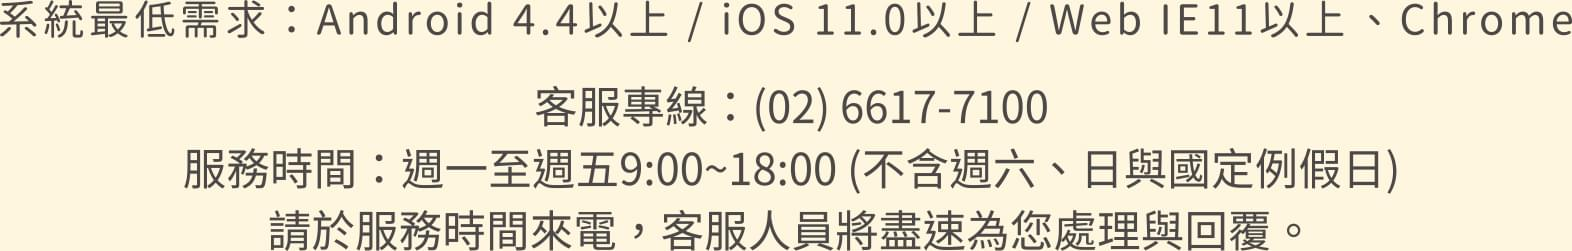
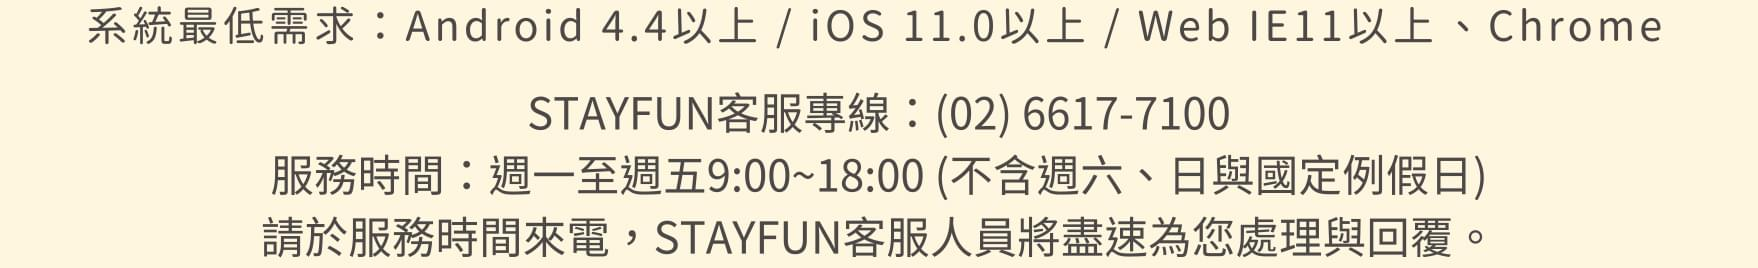
Update 2021-06-07T09:30:52.811Z

diff --git a/index.html b/index.html
@@ -17,31 +17,106 @@
       <div class="banner"><img class="banner__title" src="./assets/images/img_banner_title.png" alt=""><img src="./assets/images/img_banner.jpg" alt=""></div>
       <div class="mainContent">
         <div class="wrapper">
-          <div class="middleSpace"><a class="btn" href="https://www.msig-mingtai.com.tw/MobileWeb/BasicData/Member/Register?utm_source=stayfun&amp;utm_medium=register_stayfun&amp;utm_campaign=20210501" target="_blank">立即成為明台會員</a></div>
+          <div class="middleSpace"><a class="btn" href="https://www.msig-mingtai.com.tw/MobileWeb/BasicData/Member/Register？utm_source=stayfun&amp;utm_medium=register_stayfun&amp;utm_campaign=20210501" target="_blank">立即成為明台會員</a></div>
           <div class="photos"><img src="./assets/images/img_title.png" alt=""><img src="./assets/images/img_main.jpg" alt=""></div>
           <div class="column">
             <div class="col"><img src="./assets/images/text_info-1.png" alt=""></div>
             <div class="col"> <img src="./assets/images/text_info-2.png" alt=""></div>
             <div class="col"> <img src="./assets/images/text_info-3.png" alt=""></div>
+            <div class="col"> <img src="./assets/images/text_info-4.png" alt=""></div>
           </div>
           <div class="row steps">
             <div class="col"><img class="mb" src="./assets/images/img_step_1-mb.jpg" alt=""><img class="pc" src="./assets/images/img_step_1-pc.jpg" alt=""></div>
             <div class="col">
-              <p><a class="mb" href="https://www.msig-mingtai.com.tw/MobileWeb/BasicData/Member/Register?utm_source=stayfun&amp;utm_medium=register_stayfun&amp;utm_campaign=20210501" target="_blank"><img src="./assets/images/img_step_2-mb.jpg" alt=""></a><img class="pc" src="./assets/images/img_step_2-pc.jpg" alt=""></p>
+              <p><a class="mb" href="https://www.msig-mingtai.com.tw/MobileWeb/BasicData/Member/Register？utm_source=stayfun&amp;utm_medium=register_stayfun&amp;utm_campaign=20210501" target="_blank"><img src="./assets/images/img_step_2-mb.jpg" alt=""></a><img class="pc" src="./assets/images/img_step_2-pc.jpg" alt=""></p>
               <p><img src="./assets/images/img_step_3.jpg" alt=""></p>
             </div>
             <div class="col"><img src="./assets/images/img_step_4.jpg" alt=""></div>
+          </div>
+        </div>
+        <div class="wrapper qa">
+          <div class="row">
+            <div class="qa-head"><img src="./assets/images/img_title_qa.png" alt=""></div>
+            <div class="qa-body">
+              <table>
+                <tr>
+                  <td>Q：</td>
+                  <td>STAYFUN提供什麼樣的服務？</td>
+                </tr>
+                <tr>
+                  <td>A：</td>
+                  <td>
+                    <p>1. 不同類型的商家好康，且享有平台嚴選的特約商家優惠、豐富的票券選擇，提供給明台會員使用。</p>
+                    <p>2. 網羅生活日用品、3C家電、居家生活、美食等優質商品，提供專屬優惠，而且全館免運喔！</p>
+                  </td>
+                </tr>
+                <tr>
+                  <td>Q：</td>
+                  <td>如何享有STAYFUN服務？</td>
+                </tr>
+                <tr>
+                  <td>A：</td>
+                  <td>
+                    <p>1. 步驟一-110/12/31以前註冊成為明台產險官網會員。</p>
+                    <p>2. 步驟二-成為明台會員後2週內，會收到STAYFUN帳號開通信件。</p>
+                    <p>3. 步驟三-即可下載STAYFUN  APP，開通您的專屬帳號即享有其服務。</p>
+                  </td>
+                </tr>
+                <tr>
+                  <td>Q：</td>
+                  <td>STAYFUN享樂金是什麼？</td>
+                </tr>
+                <tr>
+                  <td>A：</td>
+                  <td>
+                    <p>為 STAYFUN 專屬支付工具，價值等同現金，1 點享樂金可折抵新臺幣 1 元，訂單結帳時，會優先扣抵享樂金，不足額可使用信用卡刷卡方式完成結帳。</p>
+                  </td>
+                </tr>
+                <tr>
+                  <td>Q：</td>
+                  <td>忘記當初在明台註冊所使用的的email怎麼辦？</td>
+                </tr>
+                <tr>
+                  <td>A：</td>
+                  <td>
+                    <p>跟著以下步驟找回你的留存的資訊：</p>
+                    <p>明台產險網路投保官網 - 會員中心 - 會員登入-會員資料維護 - 即可查看電子郵件</p>
+                    <p>( 因保障資料安全性，部分資料會顯示隱碼 )</p>
+                  </td>
+                </tr>
+                <tr>
+                  <td>Q：</td>
+                  <td>一直都沒有收到STAYFUN  APP開通信件？</td>
+                </tr>
+                <tr>
+                  <td>A：</td>
+                  <td>
+                    <p>請聯繫明台客服  0800-069-889，專人為您服務；</p>
+                    <p>網路投保客戶服務時間：週一至週五 8:30-17:30(例假日及國定假日除外)</p>
+                  </td>
+                </tr>
+                <tr>
+                  <td>Q：</td>
+                  <td>為什麼STAYFUN帳號登不進去？</td>
+                </tr>
+                <tr>
+                  <td>A：</td>
+                  <td>
+                    <p>帳號未開通，請聯繫明台客服  0800-069-889</p>
+                    <p>網路投保客戶服務時間：週一至週五 8:30-17:30(例假日及國定假日除外)</p>
+                  </td>
+                </tr>
+              </table>
+            </div>
+            <p class="qa-footer">更多詳細的STAYFUN APP使用問題請<a href="https://stayfun.mayohr.com/Home/QA" target="_blank">點此</a></p>
           </div>
         </div>
       </div>
       <div class="note">
         <div class="wrapper">
           <ul>
-            <li>注意事項</li>
-            <li>1.  活動內容如有任何異動將公布於本活動網站，本公司享有對本活動最終解釋及更改之權利。</li>
-            <li>2.  獎項實際金額以本公司購入當時之金額為準，所有獎項不得要求折換現金或兌換其他獎品或優惠。如因不可歸責於本公司之因素，致商品獎項必須變動時，本公司保留更換為等值獎項之權利。</li>
-            <li>
-               3. 所有獎項統一以掛號寄送予得獎者，得獎者填寫資料不完全導致無法核對、無法寄送或被退件，視同得獎者放棄獎項，不再另行通知及補發。</li>
+            <li style="font-weight: 700; font-size: 1.3rem;">注意事項</li>
+            <li>活動內容如有任何異動將公布於本活動網站，本公司享有對本活動最終解釋及更改之權利。</li>
           </ul>
         </div>
       </div>

diff --git a/assets/css/style/main.css b/assets/css/style/main.css
@@ -47,9 +47,10 @@ body {
 .mainContent {
   position: relative;
   z-index: 1;
-  background: url("../../images/bg_pattern.png") repeat 50% 0;
-  background-size: 50% auto;
-  padding-bottom: 2em; }
+  background: url("../../images/bg_pattern.png") repeat;
+  background-attachment: fixed;
+  background-position: top center;
+  background-size: 40% auto; }
   .mainContent .wrapper {
     width: 100%;
     padding: 0; }
@@ -151,7 +152,7 @@ body {
 
 .column {
   margin: 2em 0; }
-  .column .col:nth-child(2) {
+  .column .col:nth-child(2n) {
     -webkit-box-pack: end;
     -webkit-justify-content: flex-end;
         -ms-flex-pack: end;
@@ -162,11 +163,11 @@ body {
     margin: 0; }
 
 .steps {
-  width: 70%;
-  background: #fef6de;
+  width: calc(80% - 4em);
   padding: 2em;
-  margin: 2em auto 0;
-  border-radius: 1em; }
+  background: #fef6de;
+  border-radius: 1em;
+  margin: 2em auto 0; }
   .steps .pc {
     display: none; }
   .steps .col {
@@ -190,6 +191,34 @@ body {
           -ms-flex: 9;
               flex: 9;
       padding-left: 1em; }
+
+.qa {
+  background: #EADAB0 url("../../images/bg_pattern.png") repeat;
+  background-attachment: fixed;
+  background-position: top center;
+  background-size: 40% auto;
+  margin-top: 2em; }
+  .qa .row {
+    width: 80%; }
+  .qa-head {
+    padding: 1.5em 0;
+    width: 70%; }
+  .qa-body {
+    padding: 1em;
+    background: #FFFAD6;
+    border: 5px solid #f9bf11;
+    border-radius: 1em; }
+  .qa-footer {
+    text-align: center;
+    padding: 1em 0;
+    font-weight: 700;
+    font-size: 1.4em;
+    white-space: nowrap; }
+    .qa-footer a {
+      display: inline-block;
+      color: #5700FF; }
+  .qa table tr:nth-child(2n+1):not(:first-child) td {
+    padding-top: 1.5em; }
 
 .note {
   position: relative;

diff --git a/assets/css/style/screen.css b/assets/css/style/screen.css
@@ -10,10 +10,16 @@
     font-size: 1.2em; }
   .photos > img + img {
     margin-top: 2em; }
-  .steps .pc {
-    display: block; }
-  .steps .mb {
-    display: none; }
+  .steps {
+    width: calc(70% - 4em); }
+    .steps .pc {
+      display: block; }
+    .steps .mb {
+      display: none; }
+  .qa .row {
+    width: 70%; }
+  .qa-body {
+    border: 13px solid #f9bf11; }
   .footer li {
     display: inline;
     padding-right: 1%; }
